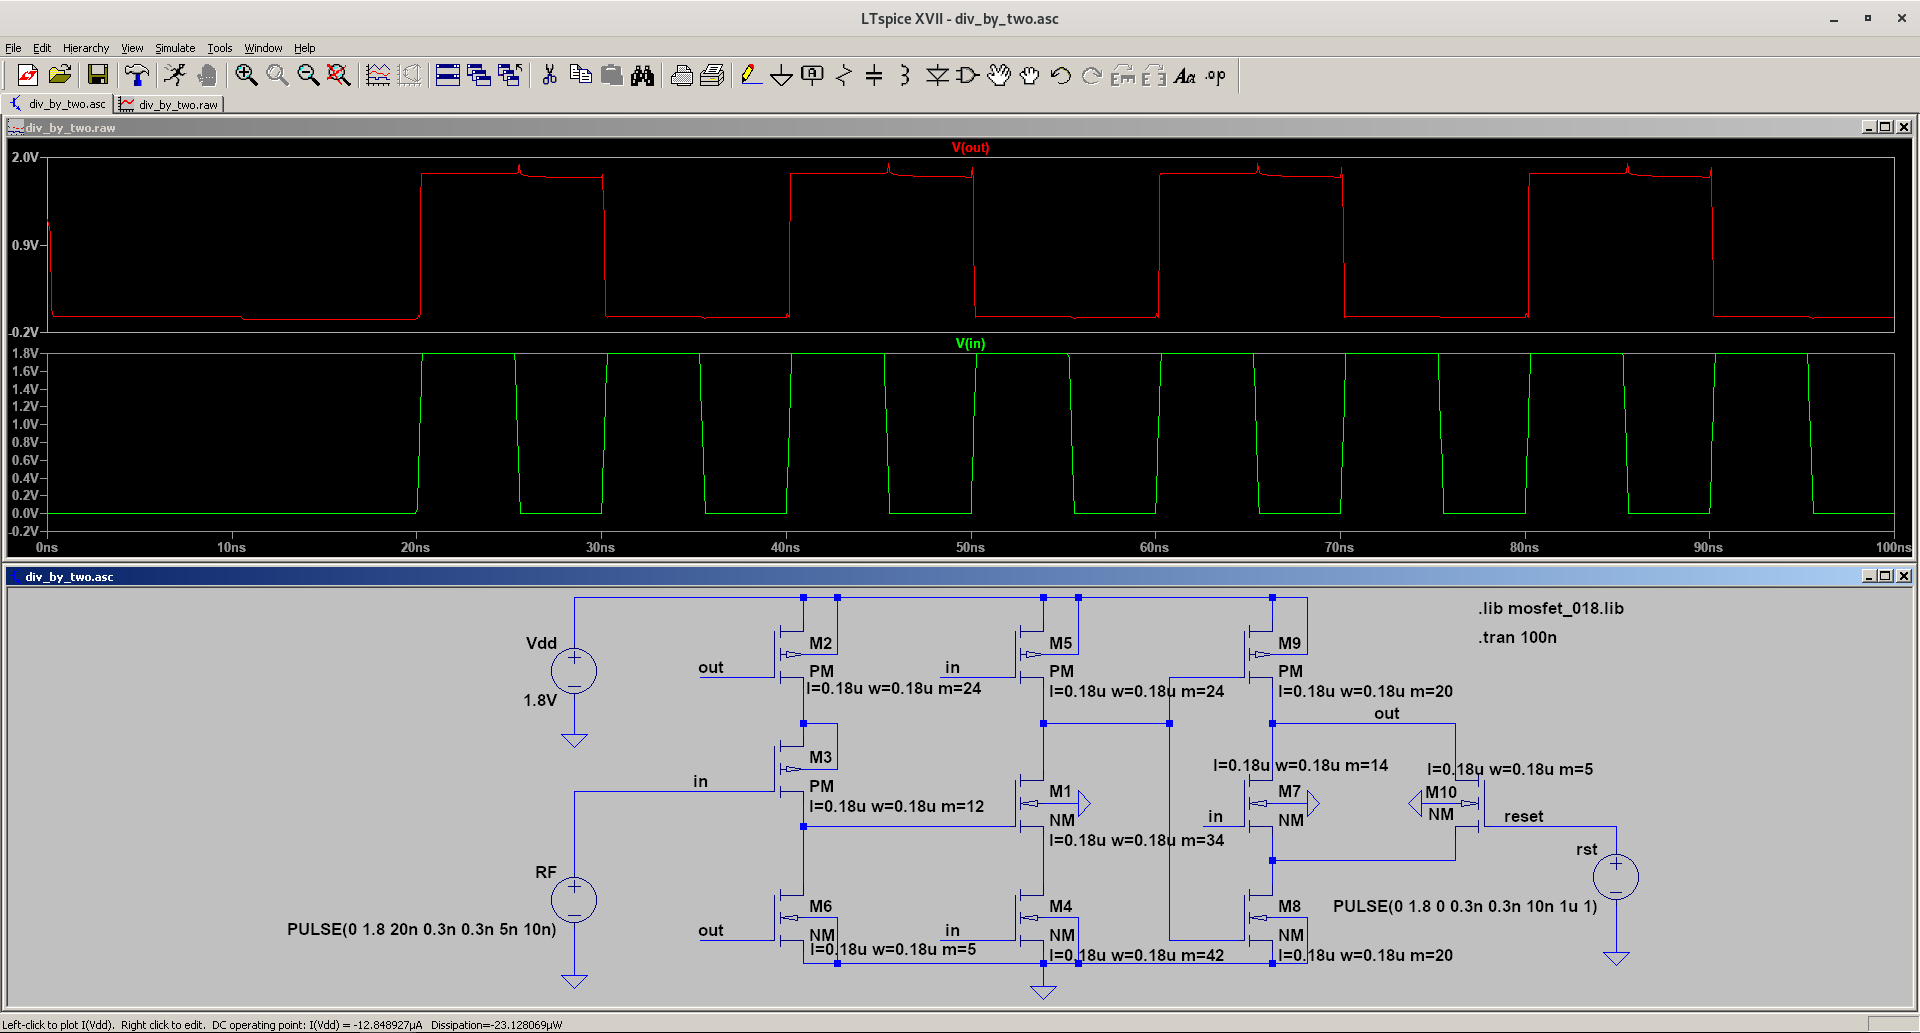
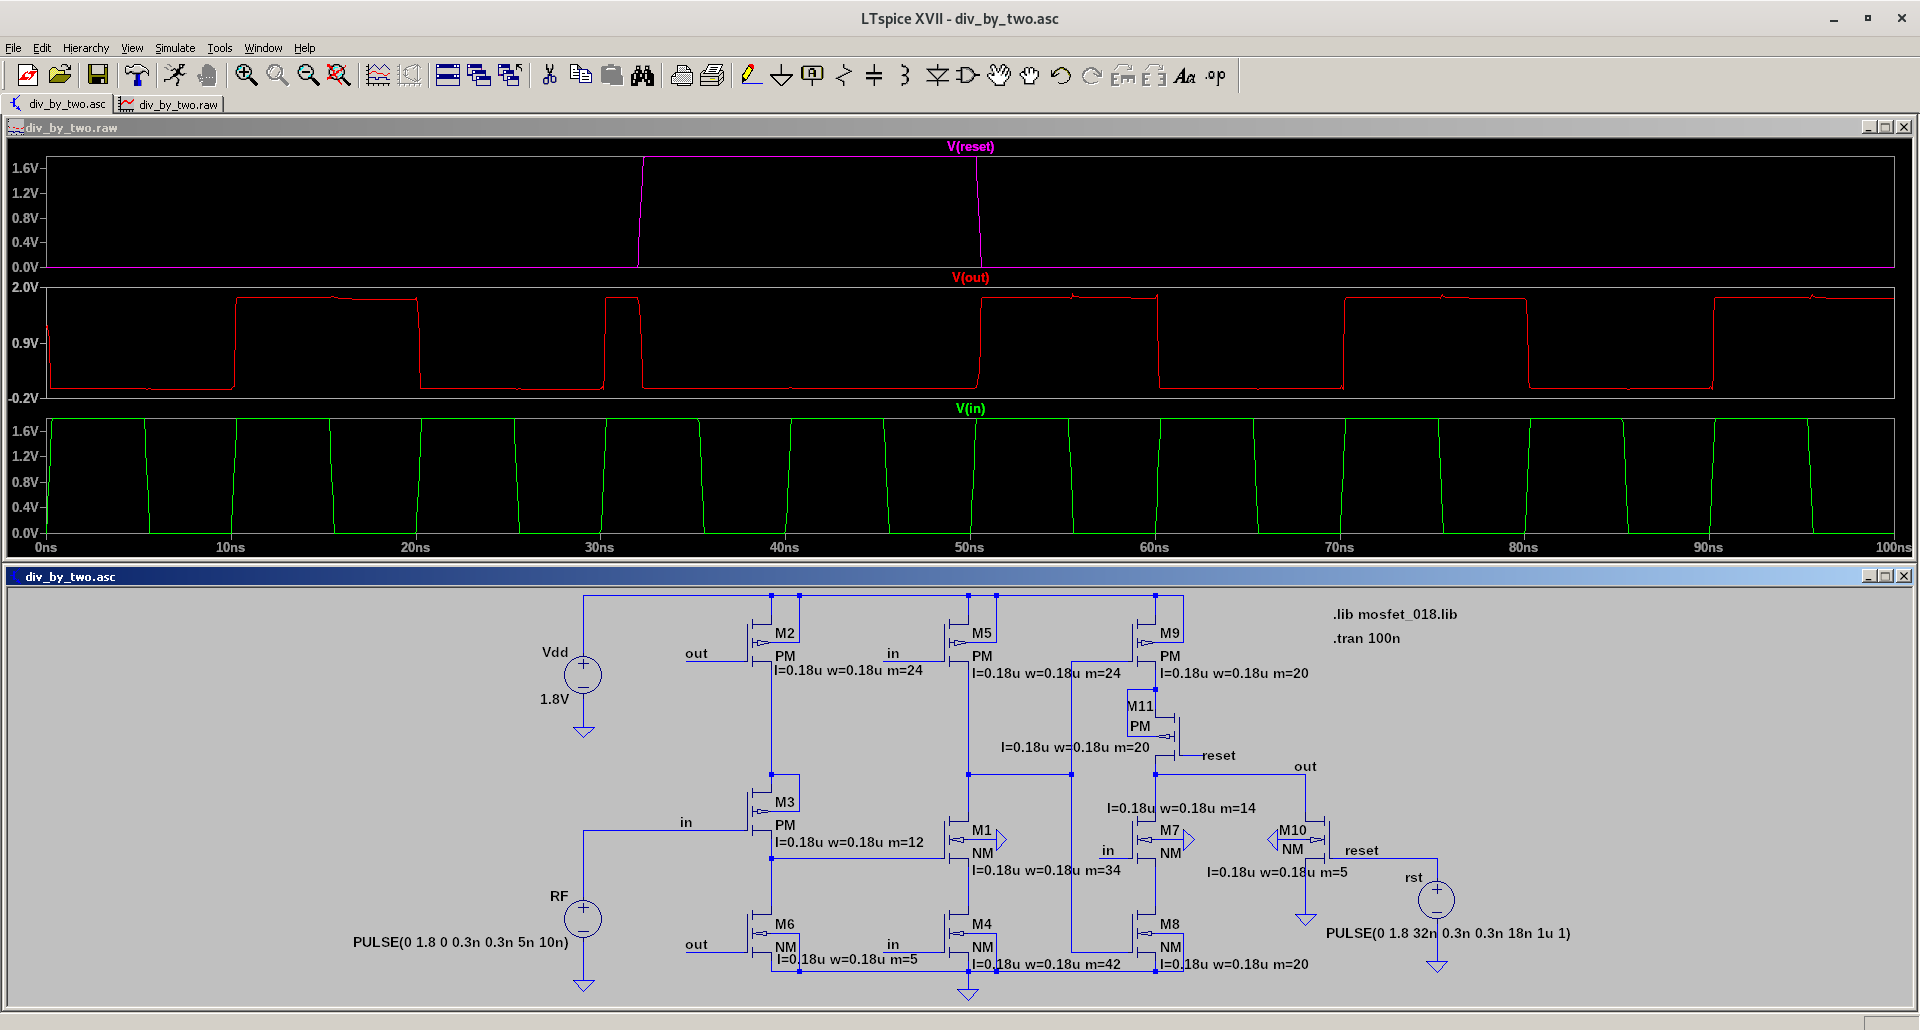
Current DFF implementation supports asynchronous reset assertion, synchronous reset de-assertion

diff --git a/README.md b/README.md
@@ -17,5 +17,3 @@ This divider circuit is just a positive-edge triggered D flip-flop of [TSPC logi
 TODO
 
 * Improves the D flip flop to use [split output latches](https://i.imgur.com/b1hWxbX.png) design which has lesser mosfet and clock loadng.
-
-* Current D flip flop does not support **asynchronous reset**
